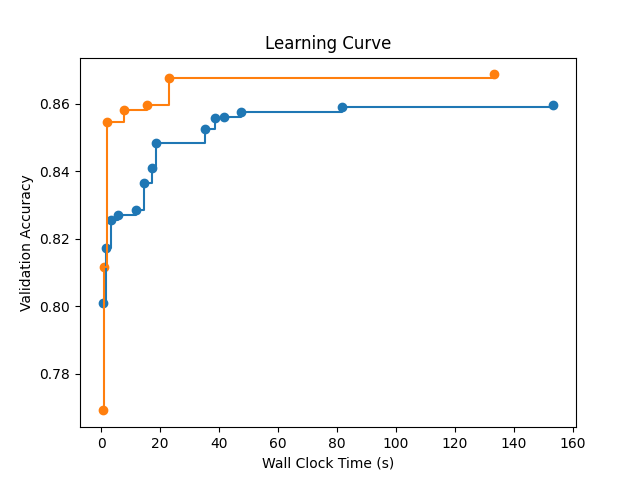
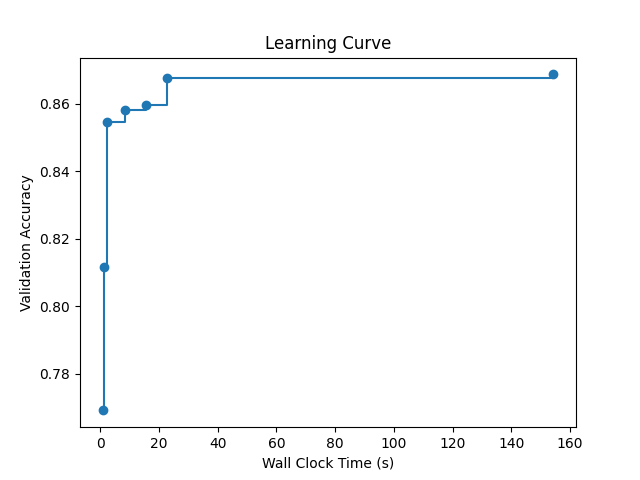
changes to adjust to the UI

diff --git a/Project/webpage/apptest.py b/Project/webpage/apptest.py
@@ -1,0 +1,85 @@
+#pip install streamlit
+import streamlit as st
+from pymongo import MongoClient
+import requests
+import json
+import subprocess
+import os
+import joblib
+
+def main():
+    st.title("MLOps Pipeline")
+
+
+    # MongoDB Connection
+    st.header("MongoDB Connection")
+
+    # Get MongoDB connection details from the user
+    mongo_uri = st.text_input("MongoDB URI", help="Enter the connection URI for your MongoDB database")
+    database_name = st.text_input("Database Name", help="Enter the name of the database")
+    collection_name = st.text_input("Collection Name", help="Enter the name of the collection")
+
+    # Check if the user provided the necessary details
+    if mongo_uri and database_name and collection_name:
+        # Connect to the MongoDB database
+        try:
+            client = MongoClient(mongo_uri)
+            db = client[database_name]
+            collection = db[collection_name]
+            st.success("Connected to MongoDB collection: {}.{}".format(database_name, collection_name))
+
+            st.header("Train Model")
+             # Add a button to initiate model training
+            if st.button("Train Model"):
+                # Execute the train.py script as a subprocess
+                subprocess.run(["py", "train.py"])
+
+                st.success("Model trained and saved successfully!")           
+
+            # Add a file uploader for JSON files
+                st.header("Generate Predictions")
+                
+                uploaded_file = st.file_uploader("Upload JSON file", type="json")
+                
+                # Check if a file was uploaded
+                if uploaded_file is not None:
+                    file_content = uploaded_file.read().decode("utf-8")      # Read the file content
+                    try:
+                        input_data = json.loads(file_content)                   # Convert the file content to JSON
+
+                        if st.button("Predict"):                  # Add a button to submit the data
+                        # Make an HTTP POST request to the web server
+                            response = make_prediction(input_data)
+
+                        # Display the prediction result
+                            if response is not None:
+                                st.success("Prediction: {}".format(response["predictions"]))
+
+                    except json.JSONDecodeError:
+                        st.error("Invalid JSON file. Please upload a valid JSON file.")
+
+        except Exception as e:
+            st.error("Error occurred during MongoDB connection: {}".format(str(e)))
+
+
+def make_prediction(data):
+    try:
+        # Define the endpoint URL
+        url = "http://localhost:5000/predict"
+
+        # Convert the input data to JSON format
+        data_json = json.dumps(data)
+
+        # Set the headers for the request
+        headers = {"Content-Type": "application/json"}
+
+        # Make the HTTP POST request
+        response = requests.post(url, data=data_json, headers=headers)
+
+        # Return the JSON response
+        return response.json()
+
+    except (requests.exceptions.RequestException, json.JSONDecodeError) as e:
+        st.error("Error occurred during prediction: {}".format(e))
+if __name__ == "__main__":
+    main()

diff --git a/Project/webpage/apptest2.py b/Project/webpage/apptest2.py
@@ -1,0 +1,58 @@
+import streamlit as st
+import subprocess
+import joblib
+import os
+import requests
+
+st.title("MLOps Pipeline")
+# Step 1: MongoDB Connection
+st.header("Step 1: MongoDB Connection")
+mongo_uri = st.text_input("MongoDB URI")
+database_name = st.text_input("Database Name")
+collection_name = st.text_input("Collection Name")
+
+# Step 2: Model Training
+st.header("Step 2: Model Training")
+
+# Check if the user provided MongoDB connection details
+if mongo_uri and database_name and collection_name:
+    if st.button("Train Model"):
+        # Step 3: Run train.py script
+        subprocess.run(["python", "C:/Users/ayesha.amjad/Documents/GitHub/BigDataProject/MLOPS/Project/automl/train.py", mongo_uri, database_name, collection_name])
+
+        st.success("Model trained and saved successfully!")
+
+# Step 4: Deploy Flask API
+st.header("Step 3: Deploy Trained Model - Flask API")
+
+if os.path.exists("C:/Users/ayesha.amjad/Documents/GitHub/BigDataProject/MLOPS/Project/model/bestmodel.pkl"):
+    if st.button("Deploy API"):
+        # Step 4a: Run webserver.py script to deploy Flask API
+        subprocess.run(["python", "C:/Users/ayesha.amjad/Documents/GitHub/BigDataProject/MLOPS/Project/webserver/server.py"])
+
+        st.success("Flask API deployed successfully!")
+
+        # Step 5: Model Prediction
+        st.header("Step 4: Model Prediction")
+
+        uploaded_file = st.file_uploader("Upload JSON file", type="json")
+
+        if uploaded_file is not None:
+            if st.button("Generate Predictions"):
+                # Step 6: Make prediction using the deployed API
+                file_content = uploaded_file.read().decode("utf-8")
+
+                try:
+                    # Step 6a: Send HTTP POST request to the deployed API
+                    response = requests.post("http://localhost:5000/predict", json=file_content)
+
+                    if response.status_code == 200:
+                        predictions = response.json()
+                        st.success("Predictions: {}".format(predictions))
+                    else:
+                        st.error("Failed to get predictions. Please try again.")
+
+                except Exception as e:
+                    st.error("Error occurred during prediction: {}".format(str(e)))
+else:
+    st.warning("Please complete Steps 1 and 2 before proceeding to Steps 4 and 5.")

diff --git a/Project/automl/train.py b/Project/automl/train.py
@@ -40,7 +40,7 @@ for column in X.columns:
 # Perform necessary preprocessing on the data
 automl = AutoML()
 automl_settings = {
-    "time_budget": 200,
+    "time_budget": 60,
     "metric": 'roc_auc',
     "task": 'classification',
     "log_file_name": 'automl.log',

diff --git a/Project/webserver/server.py b/Project/webserver/server.py
@@ -55,7 +55,6 @@ with open(model_path, 'rb') as file:
 
 app = Flask(__name__)
 
-#@app.route('/predict', methods=['POST'])
 @app.route('/predict', methods=['POST'])
 def predict():
     data = request.get_json()
